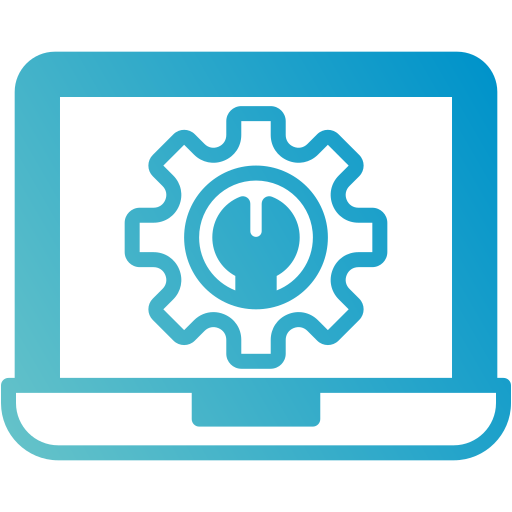
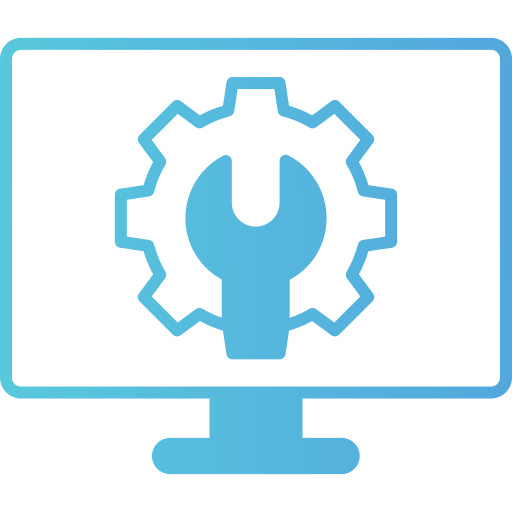
style: :sparkles: changing images in the body and carousel
Se cambio las imagenes en la parte del carrusel y en la parte del cuerpo

diff --git a/index.html b/index.html
@@ -42,13 +42,13 @@
             personalizado.</p>
           <div class="card-container">
             <div class="card">
-              <img src="img/apoyo-tecnico.png" class="card-img-top" alt="...">
+              <img src="img/apoyo-tecnico(1).png" class="card-img-top" alt="...">
               <a href="#">SOPORTE TÉCNICO
                 Y MANTENIMIENTO</a>
             </div>
 
             <div class="card">
-              <img src="img/tecnologia.png" class="card-img-top" alt="...">
+              <img src="img/alojamiento.png" class="card-img-top" alt="...">
               <a href="#">SERVIDORES <br>
                 Y REDES</a>
             </div>
@@ -72,7 +72,7 @@
             </div>
 
             <div class="card">
-              <img src="img/informacion-personal.png" class="card-img-top" alt="...">
+              <img src="img/seguridad.png" class="card-img-top" alt="...">
               <a href="#">SEGURIDAD DE
                 LA INFORMACIÓN</a>
             </div>
@@ -121,14 +121,14 @@
       </P>
     </div>
     <div class="container-body__card">
-      <img src="img/correcto.png" alt="">
+      <img src="img/check.png" alt="">
       <h1>Seguridad, tranquilidad y paz</h1>
       <P>¿Preocupado por los problemas informáticos? Con el respaldo de CODEWIZARD, disfrutará de la tranquilidad al
         saber que nuestras soluciones protegerán su empresa de cualquier contratiempo que pueda afectar su
         productividad.</P>
     </div>
     <div class="container-body__card">
-      <img src="img/crecimiento.png" alt="">
+      <img src="img/inversion.png" alt="">
       <h1>Alineados con el desarrollo de su empresa</h1>
       <P>¿Por qué quedarse estancado cuando puede crecer? Las soluciones de CODEWIZARD le permitirán centrarse en
         generar ingresos y expandir su empresa, eliminando la necesidad de preocuparse por problemas tecnológicos que
@@ -138,41 +138,9 @@
 
 
 
-  <footer class="footer">copyright &copy; 2023 ONGD ACASAYC
-    <div class="col-lg-5 text-right">
-      <div class="icon">
-        <a class="btn btn-sm btn-outline-primary btn-sm-square mr-2" href="https://www.facebook.com/acasayc/"
-          target="_blank" rel=noopener noreferrer>
-          <i class="fa fa-facebook-f fa-beat-fade" style="font-size: 20px;"></i>
-        </a>
-        <a class="btn btn-sm btn-outline-primary btn-sm-square mr-2" href="https://twitter.com/acasayc" target="_blank"
-          rel=noopener noreferrer>
-          <i class="fab fa-twitter fa-beat-fade"></i>
-        </a>
-        <a class="btn btn-sm btn-outline-primary btn-sm-square mr-2" href="https://www.instagram.com/acasayc/"
-          target="_blank" rel=noopener noreferrer>
-          <i class="fab fa-instagram fa-beat-fade"></i>
-        </a>
-        <a class="btn btn-sm btn-outline-primary btn-sm-square mr-2" href="http://wa.me/912026995" target="_blank"
-          rel=noopener noreferrer>
-          <i class="fab fa-whatsapp fa-beat-fade"></i>
-        </a>
-        <a class="icon-link icon-link-hover" style="--bs-icon-link-transform: translate3d(0, -.125rem, 0);"
-          href="https://acasayc.org/privacy-policy/" target="_blank">
-          <svg class="bi" aria-hidden="true">
-            <use xlink:href="https://acasayc.org/privacy-policy/"></use>
-          </svg>
-          Politica Privacidad
-        </a>
-      </div>
-    </div>
-
-
-  </footer>
-
-
 
 
 </body>
 <script src="https://kit.fontawesome.com/7287fef4a6.js" crossorigin="anonymous"></script>
+
 </html>

diff --git a/css/style.css b/css/style.css
@@ -127,7 +127,7 @@ a:visited {
   transform: scale(1.2);
   filter: brightness(1);
   box-shadow: 5px 5px 10px rgba(0, 0, 0, 0.5);
-  background-color: #eadff1;
+  background-color: #d7faff;
 }
 
 .card img {
@@ -259,10 +259,14 @@ a:visited {
   width: auto;
   margin-bottom: 15px;
 }
+
+/*FOOTER*/
+
 .footer {
   padding: 10px;
   margin-top: 10px;
   color: rgb(230, 34, 34);
-  background-image: linear-gradient(to top, #2b69af 0%, #e7f0fd 100%);
+  box-shadow: 20px 0px 9px rgba(0.3, 0.4, 0, 0.5);
+  background-image: linear-gradient(to right, #3d6dab 0%, #805063 100%);
   text-align: left;
 }
